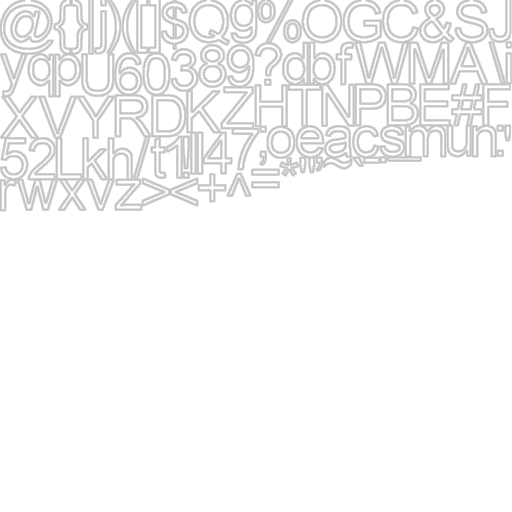
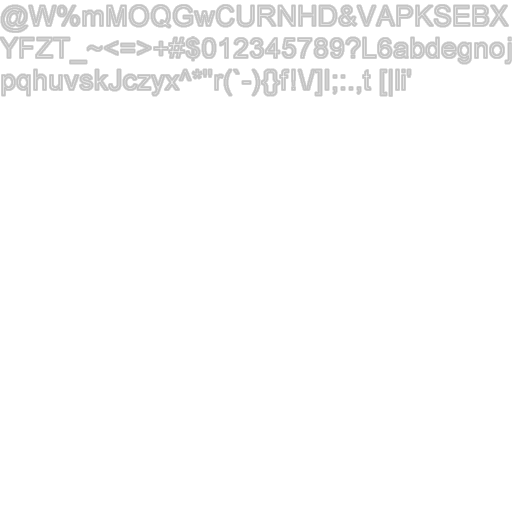
初步实现字体渲染

Changed region(s): [[0.0, 0.0, 1.0, 0.4375]]

diff --git a/app/editor/system/raw_sys/raw.cpp b/app/editor/system/raw_sys/raw.cpp
@@ -180,12 +180,6 @@ bool GLFont::Init(const std::string & url)
         value.mUV.y = 1.0f - value.mUV.y;
         value.mUV.w = 1.0f - value.mUV.w;
 
-        is >> word; value.mOffset.x = std::stof(word.substr(8));
-        is >> word; value.mOffset.y = std::stof(word.substr(8));
-        value.mOffset.z = (value.mUV.z - value.mUV.x) * texW;
-        value.mOffset.w = (value.mUV.w - value.mUV.y) * texH;
-        value.mOffset.y = _lineH - value.mOffset.y - (value.mUV.w - value.mUV.y) * texH;
-
         _info.mChars.emplace(value.mID, value);
 
         std::getline(is, line);
